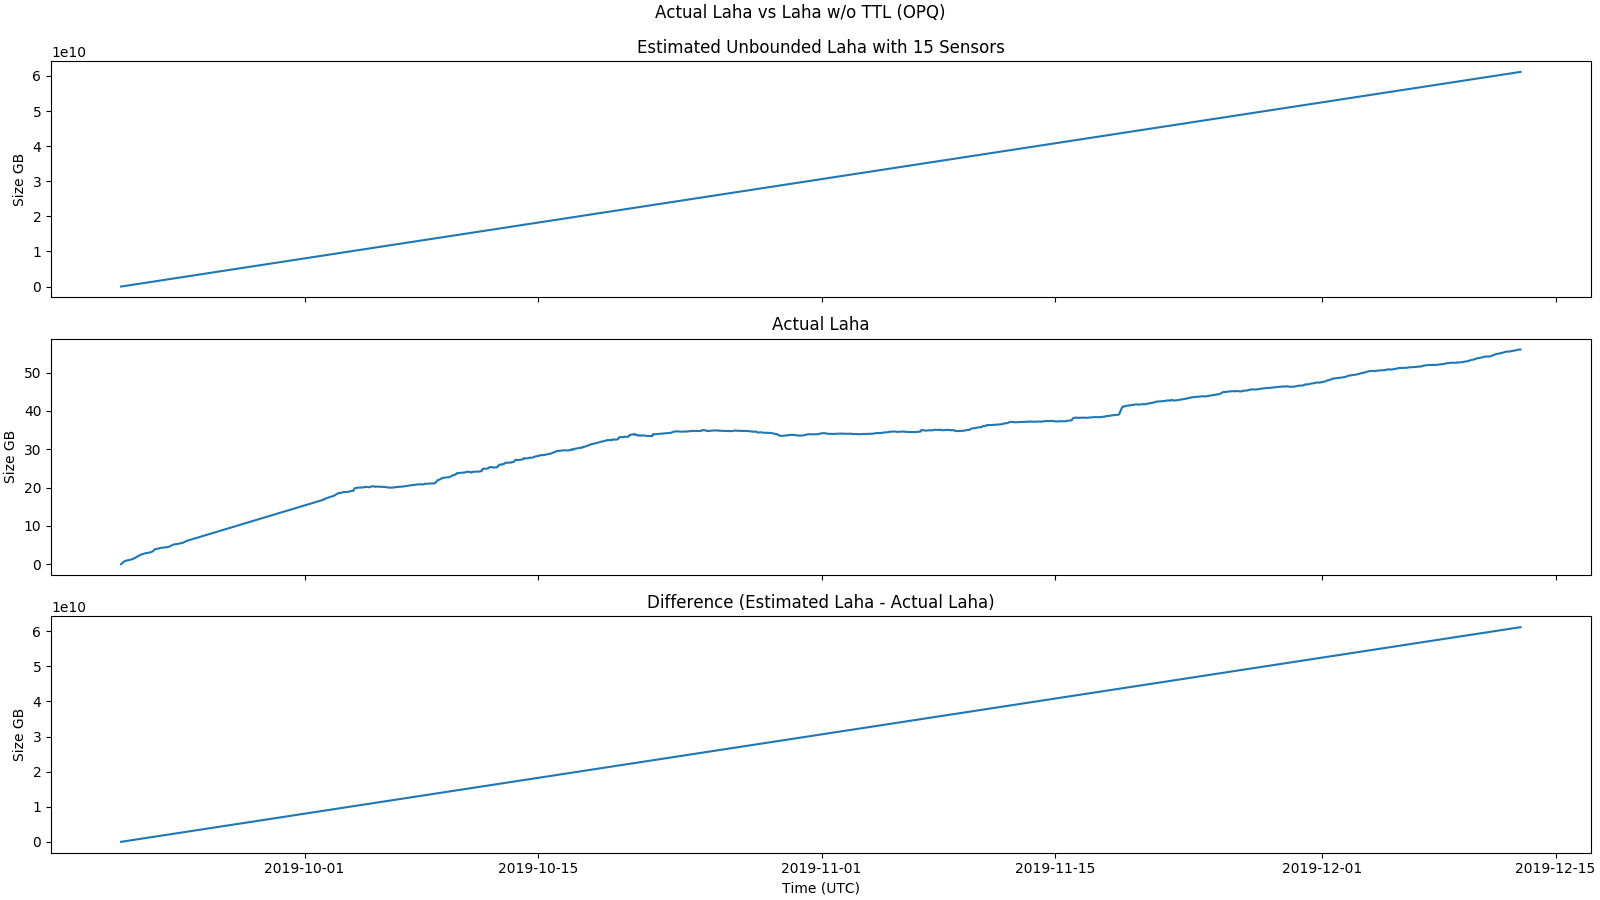
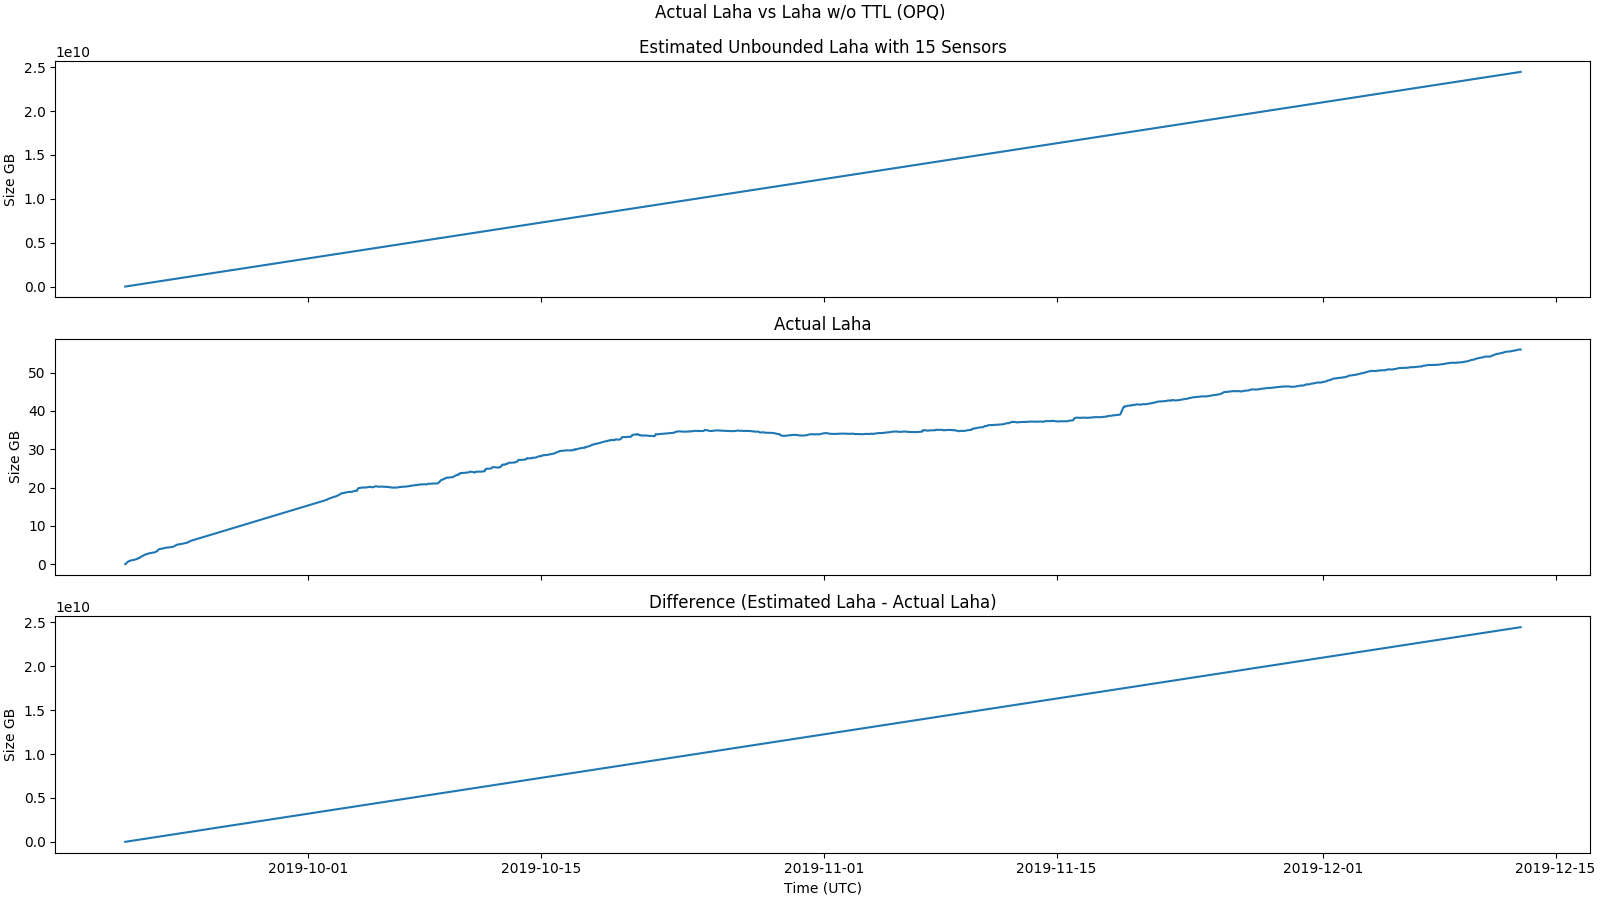
Update estimated plots.

diff --git a/plotting/opq/actual_data.py b/plotting/opq/actual_data.py
@@ -912,7 +912,7 @@ def plot_aml_vs_no_tll(laha_stats: List[LahaStat], out_dir: str) -> None:
 
 def plot_dl_vs_no_tll(laha_stats: List[LahaStat], out_dir: str) -> None:
     # Estimated Data
-    mu_dr = 44.58476968146592
+    mu_dr = 3138.2362879905268
 
     # Align the data
     first_laha_stat_timestamp_s = laha_stats[0].timestamp_s
@@ -969,7 +969,7 @@ def plot_dl_vs_no_tll(laha_stats: List[LahaStat], out_dir: str) -> None:
 
 def plot_il_vs_no_tll(laha_stats: List[LahaStat], out_dir: str) -> None:
     # Estimated Data
-    mu_dr = 234.74539870516887
+    mu_dr = 234.83720746762222
 
     # Align the data
     first_laha_stat_timestamp_s = laha_stats[0].timestamp_s
@@ -1029,8 +1029,8 @@ def plot_laha_vs_no_tll(laha_stats: List[LahaStat], out_dir: str) -> None:
     s_samp = 2
     sr = 12_000
     mu_n_sen = 15
-    mu_dr_dl = 8211.7
-    mu_dr_il = 438.58
+    mu_dr_dl = 3138.2362879905268
+    mu_dr_il = 234.83720746762222
 
     # Align the data
     first_laha_stat_timestamp_s = laha_stats[0].timestamp_s
@@ -1119,8 +1119,8 @@ def plot_laha_vs_no_tll(laha_stats: List[LahaStat], out_dir: str) -> None:
 
 def plot_laha_vs_no_tll_no_iml(laha_stats: List[LahaStat], out_dir: str) -> None:
     # Estimated Data
-    mu_dr_dl = 44.58476968146592
-    mu_dr_il = 234.74539870516887
+    mu_dr_dl = 3138.2362879905268
+    mu_dr_il = 234.83720746762222
 
     # Align the data
     first_laha_stat_timestamp_s = laha_stats[0].timestamp_s
@@ -1556,11 +1556,11 @@ if __name__ == "__main__":
 
     laha_stats: List[LahaStat] = load_laha_stats("laha_stats.pickle.db")
 
-    plot_iml(laha_stats, "/Users/anthony/Development/dissertation/src/figures")
-    plot_aml(laha_stats, "/Users/anthony/Development/dissertation/src/figures")
-    plot_dl(laha_stats, "/Users/anthony/Development/dissertation/src/figures")
-    plot_il(laha_stats, "/Users/anthony/Development/dissertation/src/figures")
-    plot_laha(laha_stats, "/Users/anthony/Development/dissertation/src/figures")
+    # plot_iml(laha_stats, "/Users/anthony/Development/dissertation/src/figures")
+    # plot_aml(laha_stats, "/Users/anthony/Development/dissertation/src/figures")
+    # plot_dl(laha_stats, "/Users/anthony/Development/dissertation/src/figures")
+    # plot_il(laha_stats, "/Users/anthony/Development/dissertation/src/figures")
+    # plot_laha(laha_stats, "/Users/anthony/Development/dissertation/src/figures")
 
     # plot_system_resources(laha_stats, "/Users/anthony/Development/dissertation/src/figures")
     plot_iml_vs_no_tll(laha_stats, "/Users/anthony/Development/dissertation/src/figures")
@@ -1570,10 +1570,10 @@ if __name__ == "__main__":
     plot_laha_vs_no_tll(laha_stats, "/Users/anthony/Development/dissertation/src/figures")
     plot_laha_vs_no_tll_no_iml(laha_stats, "/Users/anthony/Development/dissertation/src/figures")
 
-    sim_data = parse_file("sim_data.txt")
-    plot_iml_vs_sim(laha_stats, sim_data, "/Users/anthony/Development/dissertation/src/figures")
-    plot_aml_vs_sim(laha_stats, sim_data, "/Users/anthony/Development/dissertation/src/figures")
-    plot_dl_vs_sim(laha_stats, sim_data, "/Users/anthony/Development/dissertation/src/figures")
-    plot_il_vs_sim(laha_stats, sim_data, "/Users/anthony/Development/dissertation/src/figures")
-    plot_laha_vs_sim(laha_stats, sim_data, "/Users/anthony/Development/dissertation/src/figures")
+    # sim_data = parse_file("sim_data.txt")
+    # plot_iml_vs_sim(laha_stats, sim_data, "/Users/anthony/Development/dissertation/src/figures")
+    # plot_aml_vs_sim(laha_stats, sim_data, "/Users/anthony/Development/dissertation/src/figures")
+    # plot_dl_vs_sim(laha_stats, sim_data, "/Users/anthony/Development/dissertation/src/figures")
+    # plot_il_vs_sim(laha_stats, sim_data, "/Users/anthony/Development/dissertation/src/figures")
+    # plot_laha_vs_sim(laha_stats, sim_data, "/Users/anthony/Development/dissertation/src/figures")
 

diff --git a/plotting/plots.py b/plotting/plots.py
@@ -345,7 +345,7 @@ def plot_iml_average():
     plt.figure(figsize=(12, 5))
     s_samp = 2
     sr = 12_000
-    mu_n_sen = 9.9
+    mu_n_sen = 15.0
     sigma_n_sen = 0.7
     x_values = np.arange(S_IN_YEAR, step=S_IN_DAY)
     y_values = s_samp * sr * mu_n_sen * x_values
@@ -367,7 +367,7 @@ def plot_iml_average():
 def plot_dl_opq_avg():
     plt.figure(figsize=(12, 5))
 
-    mu_dr = 8211.7
+    mu_dr = 3138.2362879905268
     sigma_dr = 185544.8
 
     x_values = np.arange(1, S_IN_YEAR, step=S_IN_DAY)
@@ -390,7 +390,7 @@ def plot_dl_opq_avg():
 def plot_il_opq_avg():
     plt.figure(figsize=(12, 5))
 
-    mu_dr = 438.58
+    mu_dr = 234.83720746762222
     sigma_dr = 6288.48
 
     x_values = np.arange(S_IN_YEAR, step=S_IN_DAY)
@@ -418,7 +418,7 @@ def plot_laha_opq():
     x_values = np.arange(1, S_IN_YEAR * 3, step=S_IN_DAY)
 
     # IML
-    mu_n_sens = 1.0
+    mu_n_sens = 15.0
     sigma_n_sens = 0.7
     s_samp = 2
     sr = 12000
@@ -446,14 +446,14 @@ def plot_laha_opq():
 
     # DL
     mu_dr = 40.69
-    sigma_dr = 185544.81743550362
+    sigma_dr = 3138.2362879905268
 
     dl_size = mu_dr * x_values
     dl_size_e = (sigma_dr / np.sqrt(x_values)) * np.abs(x_values)
     plt.errorbar(x_values, dl_size, yerr=dl_size_e, label="DL")
 
     # IL
-    mu_il = 184.41
+    mu_il = 234.83720746762222
     sigma_il = 6288.484706127778
 
     il_size = mu_il * x_values
@@ -487,13 +487,13 @@ def plot_laha_opq_no_iml():
     x_values = np.arange(1, S_IN_YEAR, step=S_IN_DAY)
 
     # IML
-    mu_n_sens = 9.9
+    mu_n_sens = 15.0
     sigma_n_sens = 0.7
 
     # AML
     s_meas = 145.0
     r_meas = 1.0 / 1.0
-    s_trend = 324.0
+    s_trend = 365.0
     r_trend = 1.0 / 60.0
     aml_size_meas = s_meas * r_meas * mu_n_sens * x_values
     aml_size_trend = s_trend * r_trend * mu_n_sens * x_values
@@ -508,7 +508,7 @@ def plot_laha_opq_no_iml():
     plt.errorbar(x_values, aml_size_total, yerr=aml_size_e, label="AML")
 
     # DL
-    mu_dr = 8211.741437354178
+    mu_dr = 3138.2362879905268
     sigma_dr = 185544.81743550362
 
     dl_size = mu_dr * x_values
@@ -516,7 +516,7 @@ def plot_laha_opq_no_iml():
     plt.errorbar(x_values, dl_size, yerr=dl_size_e, label="DL")
 
     # IL
-    mu_il = 438.57850995956863
+    mu_il = 234.83720746762222
     sigma_il = 6288.484706127778
 
     il_size = mu_il * x_values
@@ -542,7 +542,7 @@ def plot_laha_opq_pie():
 
     # IML
     mu_n_sens = 1.0
-    sigma_n_sens = 0.7
+    sigma_n_sens = 15.0
     s_samp = 2
     sr = 12000
 
@@ -557,10 +557,10 @@ def plot_laha_opq_pie():
     aml_size_trend = s_trend * r_trend * mu_n_sens * x_values
 
     # DL
-    mu_dr = 40.69
+    mu_dr = 3138.2362879905268
     dl_size = mu_dr * x_values
     # IL
-    mu_il = 184.41
+    mu_il = 234.83720746762222
     il_size = mu_il * x_values
 
     plt.subplot(1, 2, 1)
@@ -709,11 +709,11 @@ if __name__ == "__main__":
     # plot_iml_level_lokahi()
     # plot_dl_opq_no_err()
     # plot_dl_opq_err()
-    # plot_iml_average()
-    # plot_dl_opq_avg()
-    # plot_il_opq_avg()
-    # plot_laha_opq()
-    # plot_laha_opq_no_iml()
-    # plot_laha_opq_pie()
+    plot_iml_average()
+    plot_dl_opq_avg()
+    plot_il_opq_avg()
+    plot_laha_opq()
+    plot_laha_opq_no_iml()
+    plot_laha_opq_pie()
     # plot_laha_lokahi_pie()
-    plot_laha_lokahi()
+    # plot_laha_lokahi()
